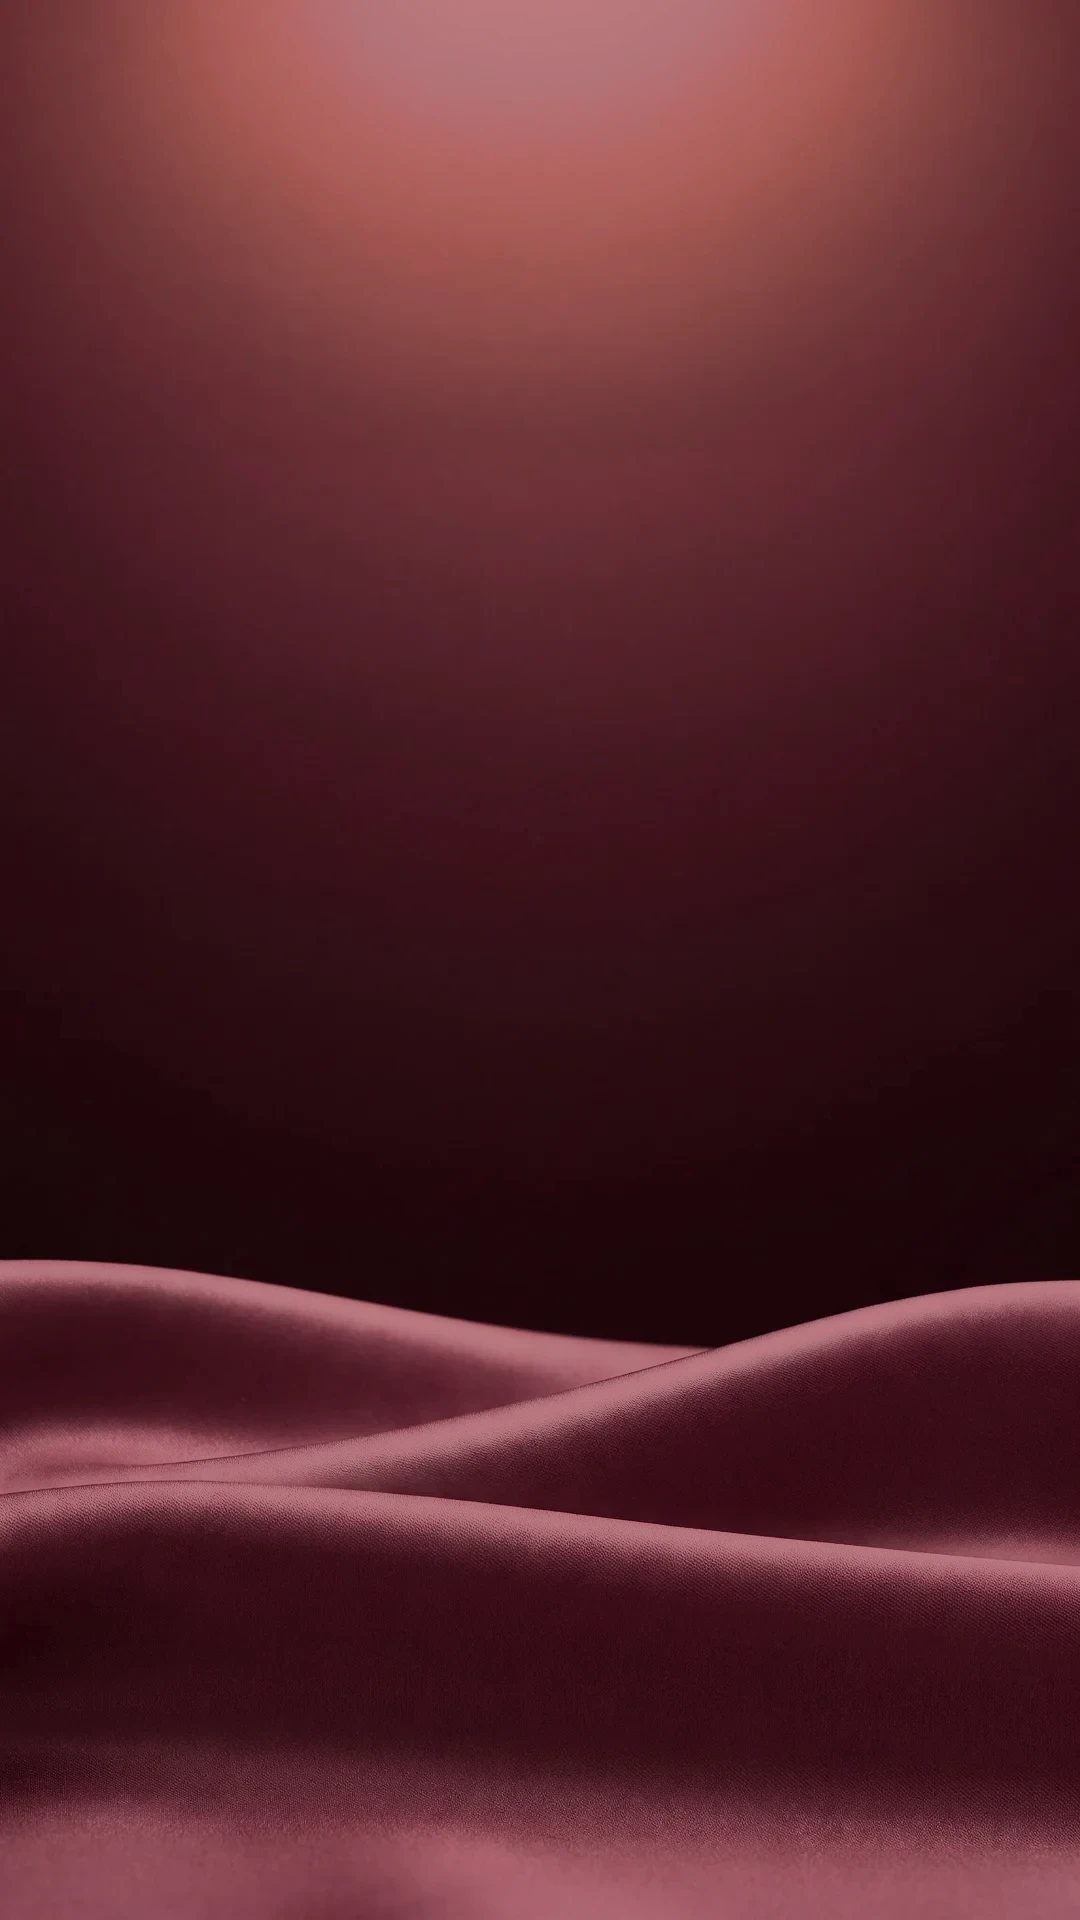
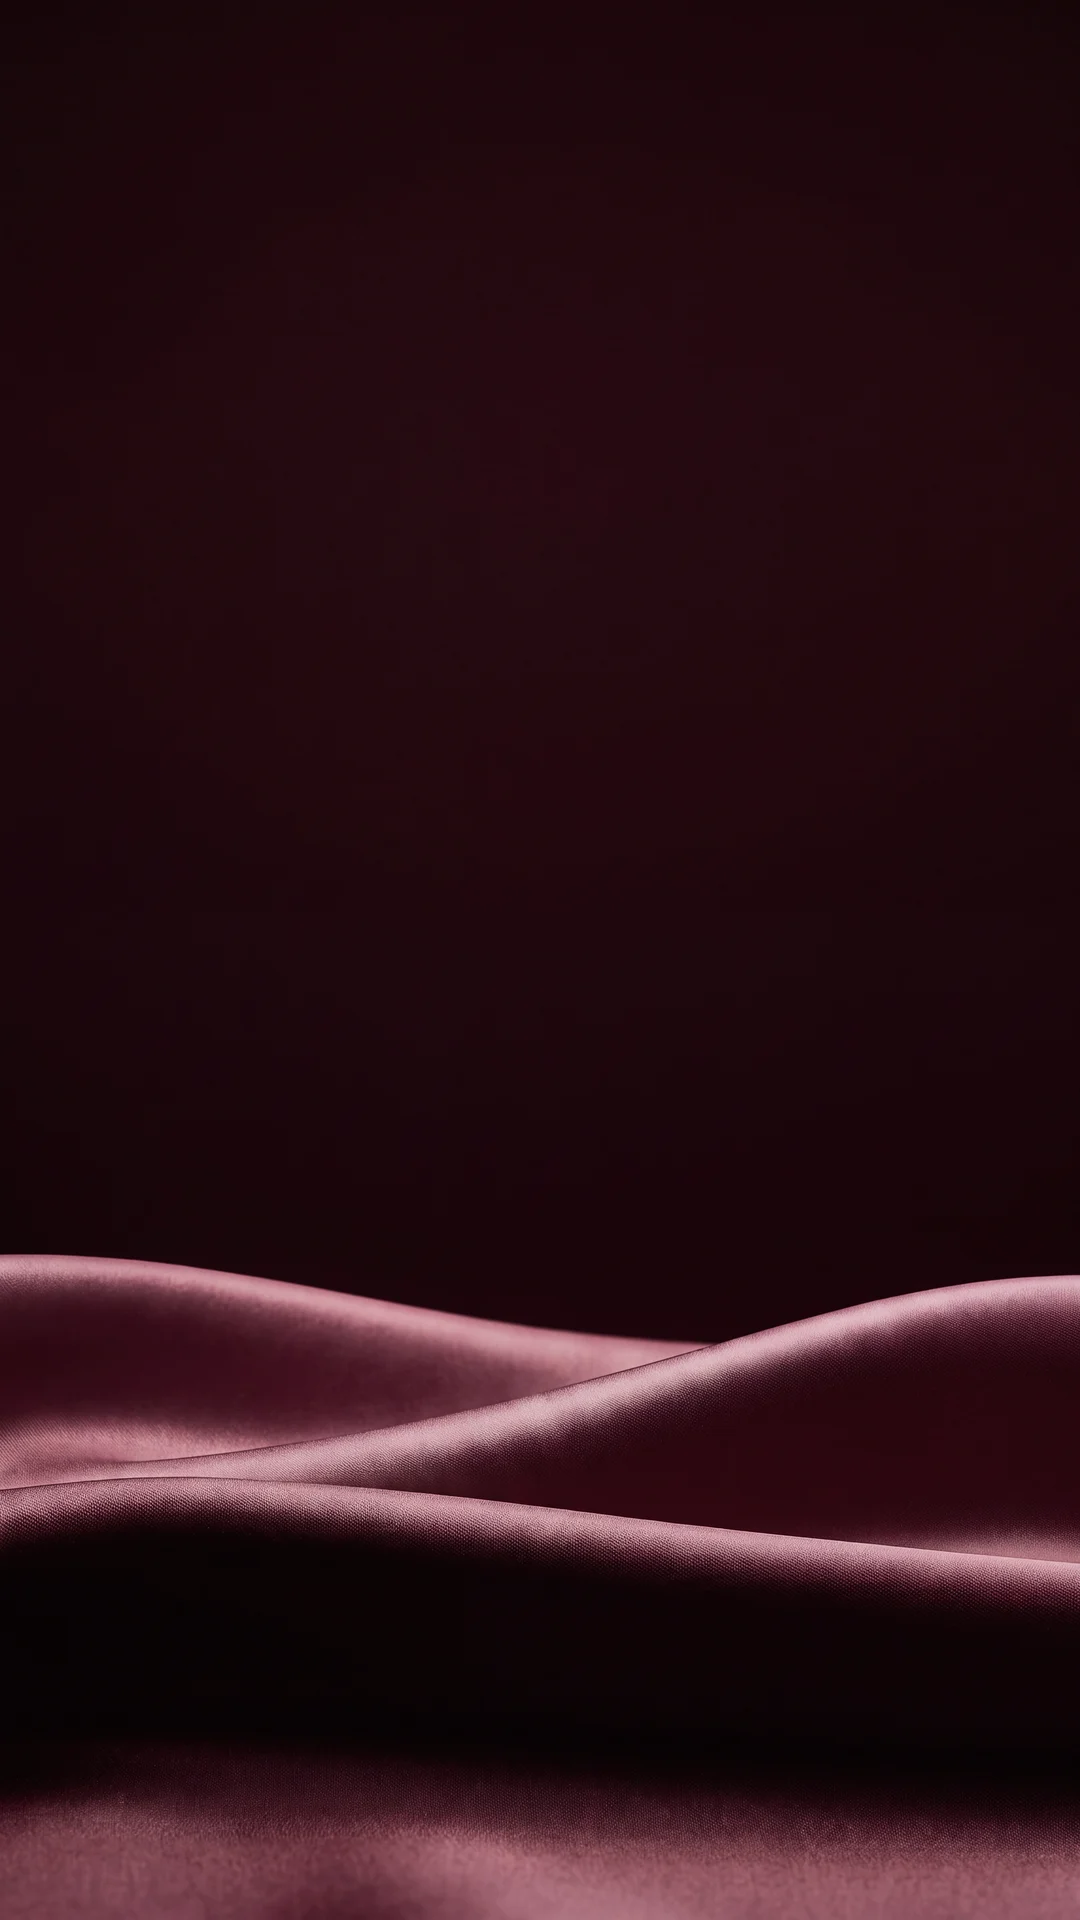
Horizon-Deep without the warm overhead spotlight; Drape-Deep sheen back to maroon
Claude-Session: https://claude.ai/code/session_01H6SQzozLwMcKuwEvLnjbpP

diff --git a/tools/siraj-silk-deepen.py b/tools/siraj-silk-deepen.py
@@ -2,13 +2,14 @@
 """SIRAJ Silk Deepen v1.0 — keeps pressed-silk stills deep and maroon (client note 2026-10-14: the cover was washed
 out by the light on the silk; the earlier cover was more beautiful).
 
-  python3 tools/siraj-silk-deepen.py <in.jpg> [<out.jpg>] [--knee 26] [--max 62] [--chroma 30]
+  python3 tools/siraj-silk-deepen.py <in.jpg> [<out.jpg>] [--knee 26] [--max 62] [--chroma 30] [--pull 0.6]
 
 What it does (CIE Lab, shares the colour maths of tools/siraj-luxe-grade.py):
   1. Highlight roll-off: lightness above the knee is compressed smoothly toward a ceiling, so a sheen stays a sheen
      and never turns into a pale pink haze. Shadows and midtones are untouched.
   2. Colour back into the light: the brightest folds regain maroon chroma (SIRAJ maroon hue ≈ 14°), so the light
      reads as light travelling across maroon satin, not as a white wash.
+     --pull sets how far warm (orange) light is eased back to maroon, also in the mid-tones.
   3. Deeper toe: the darkest folds go a touch deeper for a quiet, luxurious finish.
 The folds, the weave and the composition are never altered; this is tone and colour only.
 """
@@ -21,7 +22,7 @@ lg = importlib.util.module_from_spec(_spec); _spec.loader.exec_module(lg)
 MAROON_HUE = 14.0
 
 
-def deepen(rgb, knee=26.0, ceil=62.0, chroma=30.0):
+def deepen(rgb, knee=26.0, ceil=62.0, chroma=30.0, pull=0.6):
     lab = lg.rgb2lab(rgb)
     L, a, b = lab[..., 0], lab[..., 1], lab[..., 2]
     # 1 · highlight roll-off (tanh shoulder above the knee)
@@ -34,7 +35,7 @@ def deepen(rgb, knee=26.0, ceil=62.0, chroma=30.0):
     w = lg.smooth(knee + 4, knee + 40, L)
     Cn = C + (np.maximum(C, chroma * (0.75 + 0.25 * lg.smooth(knee, 90, L))) - C) * w
     dh = ((MAROON_HUE - h + 180) % 360) - 180
-    hn = np.radians(h + dh * 0.6 * w)
+    hn = np.radians(h + dh * pull * np.maximum(w, lg.smooth(12, 40, L) * 0.8))
     out = np.stack([Ln, Cn * np.cos(hn), Cn * np.sin(hn)], -1)
     return lg.lab2rgb(out)
 
@@ -43,13 +44,14 @@ def main():
     knee = float(sys.argv[sys.argv.index('--knee') + 1]) if '--knee' in sys.argv else 26.0
     ceil = float(sys.argv[sys.argv.index('--max') + 1]) if '--max' in sys.argv else 62.0
     chroma = float(sys.argv[sys.argv.index('--chroma') + 1]) if '--chroma' in sys.argv else 30.0
+    pull = float(sys.argv[sys.argv.index('--pull') + 1]) if '--pull' in sys.argv else 0.6
     vals = {sys.argv[i + 1] for i, x in enumerate(sys.argv[:-1]) if x.startswith('--')}
     files = [x for x in sys.argv[1:] if not x.startswith('--') and x not in vals]
     src = files[0]; dst = files[1] if len(files) > 1 else src
     im = Image.open(src)
     alpha = im.getchannel('A') if im.mode in ('RGBA', 'LA') else None
     rgb = np.asarray(im.convert('RGB')).astype(np.float64) / 255.0
-    out = Image.fromarray((deepen(rgb, knee, ceil, chroma) * 255 + 0.5).astype(np.uint8))
+    out = Image.fromarray((deepen(rgb, knee, ceil, chroma, pull) * 255 + 0.5).astype(np.uint8))
     if alpha is not None: out.putalpha(alpha)
     kw = {'quality': 95, 'subsampling': 0} if dst.lower().endswith(('.jpg', '.jpeg')) else {}
     if dst.lower().endswith('.webp'): kw = {'quality': 90}

diff --git a/.claude/skills/siraj-brand-system/SKILL.md b/.claude/skills/siraj-brand-system/SKILL.md
@@ -22,7 +22,7 @@ The idea in one line: **the lamp sets the standard, silk carries it, architectur
 ## 2. Non-negotiables (check every output against these)
 
 1. **Arabic only.** All SIRAJ and Founding-Project communication is Arabic. English is *dormant* until the first freehold project open to foreign ownership — don't produce English versions unless the user explicitly asks. Latin is allowed only for the logo, `WWW.SIRAJPROPERTIES.NET`, `SIRAJPROPERTIES`, the phone number and units like `م²`.
-2. **Real silk only.** Silk is always *photographic*: a photograph of real silk fabric, or photoreal generated photography of it (the 11 formations in `assets/silk/` / `06-SIRAJ-Silk/Stills`, the alpha cut-outs, the keyed footage, and the official Project Siraj key visuals in `14-Property-Marketing/12-Project-Siraj` are all approved). Never draw or imitate silk with CSS gradients, vectors, shapes or the CG engine. New silk = new *photographs* via connectors (`references/connectors.md`). A flat brand colour or the G1 gradient as a plain background is fine — it just isn't called silk. Light on silk is a narrow maroon sheen, never a pale wash or haze; the cover-grade look is deep and quiet (`tools/siraj-silk-deepen.py`).
+2. **Real silk only.** Silk is always *photographic*: a photograph of real silk fabric, or photoreal generated photography of it (the 11 formations in `assets/silk/` / `06-SIRAJ-Silk/Stills`, the alpha cut-outs, the keyed footage, and the official Project Siraj key visuals in `14-Property-Marketing/12-Project-Siraj` are all approved). Never draw or imitate silk with CSS gradients, vectors, shapes or the CG engine. New silk = new *photographs* via connectors (`references/connectors.md`). A flat brand colour or the G1 gradient as a plain background is fine — it just isn't called silk. Light on silk is a narrow maroon sheen, never a pale wash, haze or warm overhead spotlight on the backdrop; the cover-grade look is deep and quiet (`tools/siraj-silk-deepen.py`).
 3. **People:** women appear **only in a hijab fully covering hair and neck, with loose modest clothing** — never uncovered hair or ʿawrah, including background and scale figures. Cast a **mix of Omani and international** people. **Omani men wear the dishdasha with the massar (المصر)** — never the kumma, never the Gulf ghutra. No intimate poses.
 4. **The logo is never redrawn**, recoloured outside its variants, stretched, shadowed, or set in a font. Use the files in `assets/logo/`.
 5. **Western digits (0–9) everywhere**, including Arabic text. Never ٠١٢٣.

diff --git a/AGENTS.md b/AGENTS.md
@@ -26,7 +26,7 @@ SIRAJ Real Estate Development · سراج للتطوير العقاري. Read th
 11. **People:** women only in hijab with modest dress; Omani men in dishdasha + massar; no intimate poses. Prefer no people.
 12. **Type:** Tajawal (Arabic) + Jost (Latin), Western digits, no Arabic letter-spacing. Display lines may pair 200 with 800. **Arabic line spacing: display ≥ 1.3, headings ≥ 1.4, body ≥ 1.6. Lines never touch or overlap, especially in Bold.**
 13. **Motion:** FLOW · DRAPE · REVEAL · WRAP · FOLD · GLIDE · SETTLE. No bounce, elastic, glitch, flashy zooms, random 3D or gold clichés.
-15. **Light is ivory-rose, never yellow.** Reduce yellow/amber light everywhere: lamps, windows, sun haze and light sweeps read warm ivory-rose, not gold. Every final scene must feel quiet and luxurious: deep clean blacks, soft highlight roll-off, one sheen. Grade images with `tools/siraj-luxe-grade.py`. Light on silk stays a narrow maroon sheen, never a pale wash or haze over the fabric (client 2026-10-14); roll highlights off with `tools/siraj-silk-deepen.py`.
+15. **Light is ivory-rose, never yellow.** Reduce yellow/amber light everywhere: lamps, windows, sun haze and light sweeps read warm ivory-rose, not gold. Every final scene must feel quiet and luxurious: deep clean blacks, soft highlight roll-off, one sheen. Grade images with `tools/siraj-luxe-grade.py`. Light on silk stays a narrow maroon sheen, never a pale wash or haze over the fabric, and backdrops never carry a warm overhead spotlight (client 2026-10-14); roll highlights off with `tools/siraj-silk-deepen.py`.
 14. **Air / wind moves everything soft.** In all motion and every video we produce, the silk moves because a breeze passes through it, and so do the trees, palms and plants in and around the project wherever they appear. One prevailing direction per scene (right → left), slow travelling waves, at most one gentle gust per film, then SETTLE. Never a storm, flapping, jitter or looping wobble, and the architecture never moves. Values and video-prompt lines: `motion-system/tokens/siraj-wind.json`.
 
 16. **Intro and outro:** the SIRAJ company version, in 16:9 and 9:16. Project versions are postponed with the project-name lettering. Outros end on a quiet, luxurious frame.

diff --git a/21-Brand-Kit/Claude-Design-Kickoff/01_Brief/AGENTS.md b/21-Brand-Kit/Claude-Design-Kickoff/01_Brief/AGENTS.md
@@ -25,7 +25,7 @@ SIRAJ Real Estate Development · سراج للتطوير العقاري. Read th
 11. **People:** women only in hijab with modest dress; Omani men in dishdasha + massar; no intimate poses. Prefer no people.
 12. **Type:** Tajawal (Arabic) + Jost (Latin), Western digits, no Arabic letter-spacing. Display lines may pair 200 with 800. **Arabic line spacing: display ≥ 1.3, headings ≥ 1.4, body ≥ 1.6. Lines never touch or overlap, especially in Bold.**
 13. **Motion:** FLOW · DRAPE · REVEAL · WRAP · FOLD · GLIDE · SETTLE. No bounce, elastic, glitch, flashy zooms, random 3D or gold clichés.
-15. **Light is ivory-rose, never yellow.** Reduce yellow/amber light everywhere: lamps, windows, sun haze and light sweeps read warm ivory-rose, not gold. Every final scene must feel quiet and luxurious: deep clean blacks, soft highlight roll-off, one sheen. Grade images with `tools/siraj-luxe-grade.py`. Light on silk stays a narrow maroon sheen, never a pale wash or haze over the fabric (client 2026-10-14); roll highlights off with `tools/siraj-silk-deepen.py`.
+15. **Light is ivory-rose, never yellow.** Reduce yellow/amber light everywhere: lamps, windows, sun haze and light sweeps read warm ivory-rose, not gold. Every final scene must feel quiet and luxurious: deep clean blacks, soft highlight roll-off, one sheen. Grade images with `tools/siraj-luxe-grade.py`. Light on silk stays a narrow maroon sheen, never a pale wash or haze over the fabric, and backdrops never carry a warm overhead spotlight (client 2026-10-14); roll highlights off with `tools/siraj-silk-deepen.py`.
 14. **Air / wind moves everything soft.** In all motion and every video we produce, the silk moves because a breeze passes through it, and so do the trees, palms and plants in and around the project wherever they appear. One prevailing direction per scene (right → left), slow travelling waves, at most one gentle gust per film, then SETTLE. Never a storm, flapping, jitter or looping wobble, and the architecture never moves. Values and video-prompt lines: `motion-system/tokens/siraj-wind.json`.
 
 ## Working rules

diff --git a/CHANGELOG.md b/CHANGELOG.md
@@ -5,6 +5,8 @@
 - **Washed-out silk fixed** (client: «الغلاف باهت بسبب الضوء على الحرير — الغلاف السابق كان أجمل»).
   - **Drape-Lumen:** the blown, colourless highlight is gone. A new pressed 4K still recreates the earlier, deeper composition: diagonal folds and narrow maroon sheen lines, no creases. It is used on the guidelines cover and dividers, posts, the presentation and the Silk Fold transition.
   - **Drape-Deep and Horizon-Deep:** highlights rolled off with the new `tools/siraj-silk-deepen.py`.
+  - **Horizon-Deep backdrop:** the warm overhead spotlight is gone (client: «الخلفية صفراء ليست جميلة، بسبب الضوء من الأعلى»). The same pressed silk horizon now sits under an even, deep maroon-black backdrop (new 4K stills).
+  - **Drape-Deep sheen:** eased from orange back to maroon (`--pull 0.9`).
   - **Archive:** the superseded stills are in `99-Archive/Silk-Washed-v1.0`.
 - **Typed name removed from the Design System:** titles, breadcrumbs, eyebrows and image alt texts no longer type «سراج» as a name.
 
